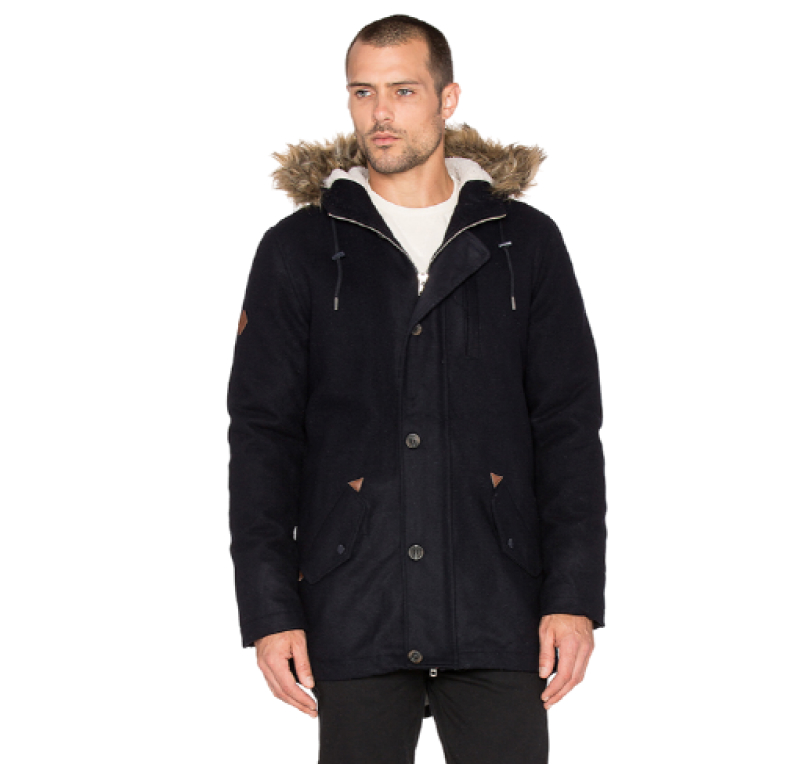
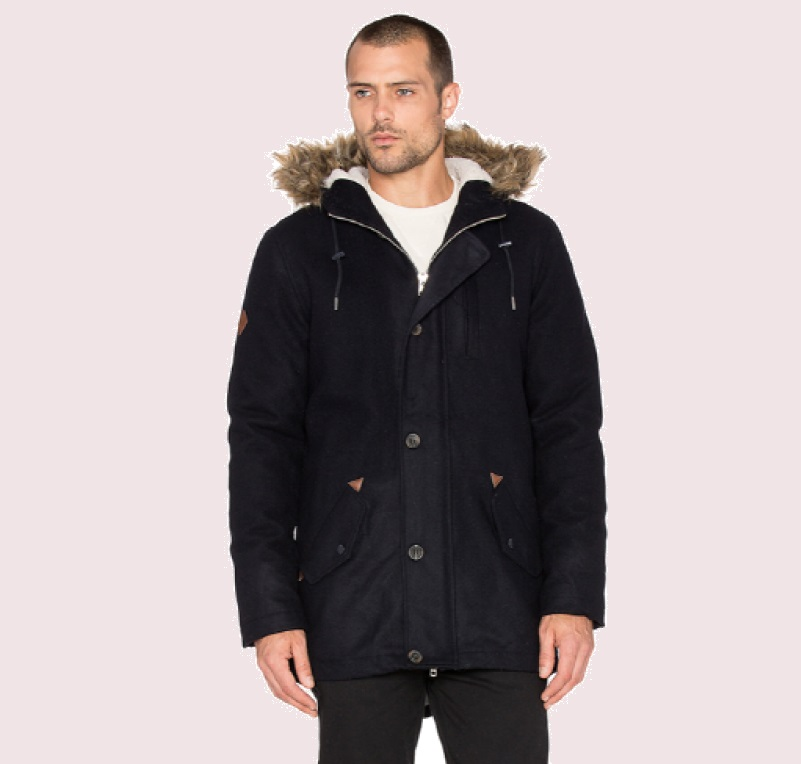
1

diff --git a/index.html b/index.html
@@ -17,34 +17,60 @@
                 <li><a href="#"><img src="img/Forma 1.png" alt="Поиск"></a></li>
             </ul>
             <ul class="menu_right">
-                <li><a href="#"><img src="img/Menu.png" alt="Меню"></a></li>
+                <li><a class="mega" href="#"><img src="img/Menu.png" alt="Меню"></a>
+                    <div class="mega_box">
+                        <div class="mega_item">
+                            <h5 class="mega_header">MENU</h5>
+                            <p class="mega_section">MAN</p>
+                            <a class="mega_link" href="" Accessories></a>
+                            <a class="mega_link" href="">Bags</a>
+                            <a class="mega_link" href="">Denim</a>
+                            <a class="mega_link" href="">T-Shirts</a>
+                            <p class="mega_section">WOMEN</p>
+                            <a class="mega_link" href="" Accessories></a>
+                            <a class="mega_link" href="">Jackets & Coats</a>
+                            <a class="mega_link" href="">Polos</a>
+                            <a class="mega_link" href="">T-Shirts</a>
+                            <a class="mega_link" href="">Shirts</a>
+                            <p class="mega_section">KIDS</p>
+                            <a class="mega_link" href="" Accessories></a>
+                            <a class="mega_link" href="">Jackets & Coats</a>
+                            <a class="mega_link" href="">Polos</a>
+                            <a class="mega_link" href="">T-Shirts</a>
+                            <a class="mega_link" href="">Shirts</a>
+                            <a class="mega_link" href="">Bags</a>
+                        </div>
+                    </div>
+                </li>
                 <li><a href="#"><img src="img/Cart.png" alt="Регистрация"></a></li>
                 <li><a href="#"><img src="img/Product.png" alt="Корзина"></a></li>
             </ul>
         </div>
     </div>
-    <div class="baner container">
-        <div class="baner_left">
+    <div class="backgc_baner">
+        <div class="baner container">
+            <div class="baner_left">
 
-            <img class="baner_image" src="img/Layer_57-removebg-preview 1.jpg" alt="baner_left">
-        </div>
-        <div class="baner_right">
-            <div class="brpink"></div>
-            <div class="brtext">
-                <div class="brtext_top">
-                    <h4>THE BRAND</h4>
-                </div>
-                <div class="brtext_bot">
-                    <div class="brtext_bot_black">
-                        <h2>OF LUXERIOUS </h2>
-                    </div>
-                    <div class="brtext_bot_pink">
-                        <h3>FASHION</h3>
-                    </div>
-                </div>
+                <img class="baner_image" src="img/Layer_57-removebg-preview 1.jpg" alt="baner_left">
             </div>
-            <!-- <img class="brtext" src="img/THE BRAND OF LUXERIOUS FASHION.png" alt="THE BRAND OF LUXERIOUS FASHION"> -->
+            <div class="baner_right">
+                <div class="brpink"></div>
+                <div class="brtext">
+                    <div class="brtext_top">
+                        <h4>THE BRAND</h4>
+                    </div>
+                    <div class="brtext_bot">
+                        <div class="brtext_bot_black">
+                            <h2>OF LUXERIOUS </h2>
+                        </div>
+                        <div class="brtext_bot_pink">
+                            <h3>FASHION</h3>
+                        </div>
+                    </div>
+                </div>
+                <!-- <img class="brtext" src="img/THE BRAND OF LUXERIOUS FASHION.png" alt="THE BRAND OF LUXERIOUS FASHION"> -->
 
+            </div>
         </div>
     </div>
     <div class="content container">

diff --git a/style.css b/style.css
@@ -37,12 +37,68 @@ li {
     justify-content: space-between;
 }
 
+.mega_box {
+    position: relative;
+    display: none;
+}
+
+.mega_item {
+    display: grid;
+    position: absolute;
+    padding-left: 34px;
+    width: 232px;
+    height: 764px;
+    top: 30px;
+    left: 180px;
+    z-index: 0;
+    background: #FFFFFF;
+
+}
+
+.menu_right:hover .mega_box {
+    display: block;
+
+}
+
+.mega_header {
+    padding-left: 34px;
+    font-weight: 700;
+    font-size: 14px;
+    line-height: 17px;
+    color: #000000;
+}
+
+.mega_section {
+    padding-left: 34px;
+    font-weight: 400;
+    font-size: 14px;
+    line-height: 17px;
+    color: #F16D7F;
+}
+
+.mega_link {
+    padding-left: 55px;
+    font-weight: 400;
+    font-size: 14px;
+    line-height: 17px;
+    color: #6F6E6E;
+}
+
+.mega_link:hover {
+    color: #F16D7F;
+}
+
 .menu_left {
     width: 111px;
     height: 75px;
     display: flex;
     align-items: center;
     justify-content: space-between;
+}
+
+.backgc_baner {
+    background-color: #F1E4E6;
+    z-index: 1;
 }
 
 .baner {
